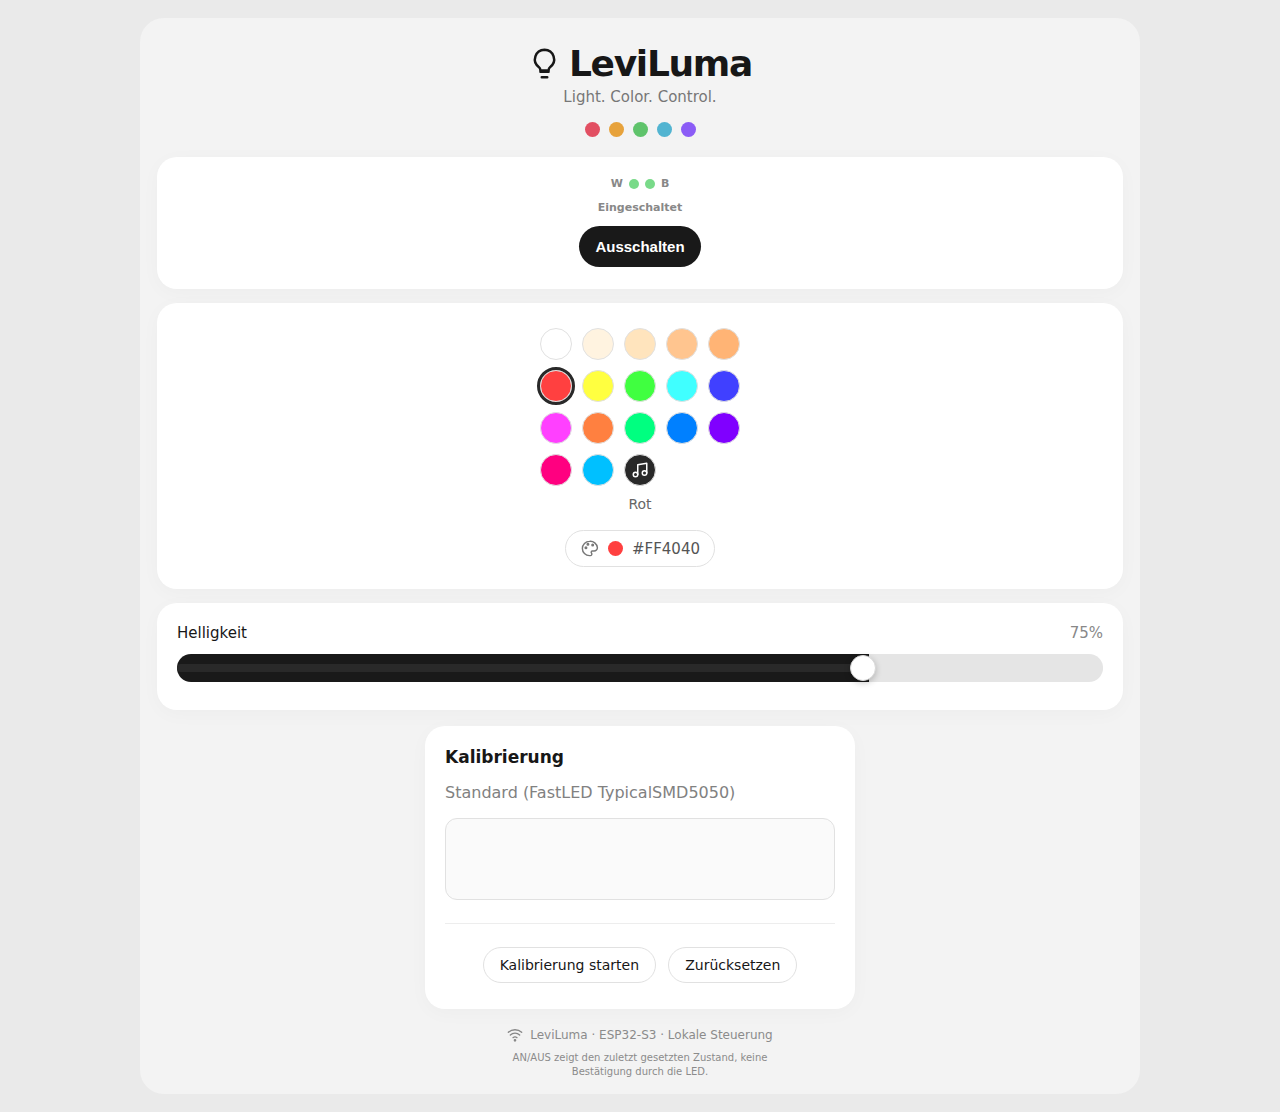
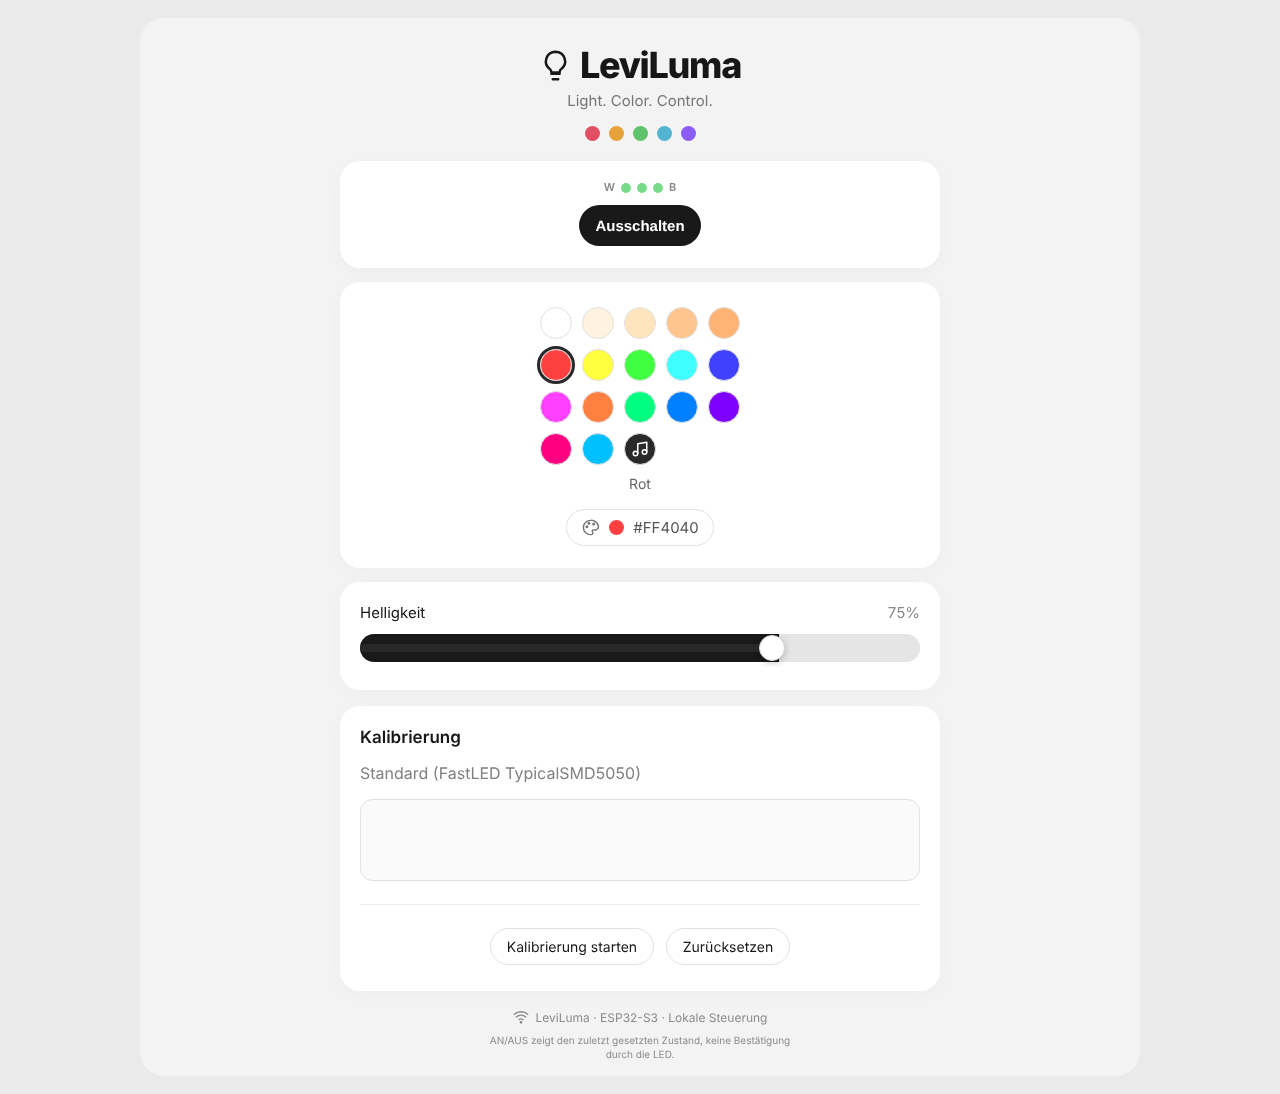
Web-UI: einheitliche Breite (max. 600 px), Einschalt-Status als Kreis statt Text
- Alle Karten (An/Aus, Farbe, Helligkeit, Kalibrierung) gleiche Breite, max. 600 px
- Text "Eingeschaltet" entfernt; zwischen WLAN- und BLE-Kreis ein unbeschrifteter Statuskreis:
  weiß = unbekannt, rot = aus, grün = an (mit Tooltip)
- Screenshots der Web-UI neu

Claude-Session: https://claude.ai/code/session_01XLaKkGhMqU82qXdsv9t5qw

diff --git a/include/WebUi.h b/include/WebUi.h
@@ -6,13 +6,13 @@ static const char LEVI_HTML[] PROGMEM=R"LEVIHTML(<!doctype html><html lang="de">
 .shell{background:#f3f3f3;border-radius:24px;padding:20px 17px 13px;width:min(100%,1000px)}
 header{text-align:center;padding:5px 0 20px}h1{font-size:36px;letter-spacing:-1.3px;margin:0;font-weight:760;display:flex;align-items:center;justify-content:center;gap:8px}
 svg{display:block}header p{margin:4px 0;color:#777;font-size:15px}.branddots{display:flex;justify-content:center;gap:9px;margin-top:16px}.branddots i{width:15px;height:15px;border-radius:50%}
-.calib{margin:16px auto 0;max-width:430px}
-.tri{display:grid;grid-template-columns:minmax(0,1fr);gap:14px}
+.calib{margin:16px auto 0;max-width:600px;width:100%}
+.tri{display:grid;grid-template-columns:minmax(0,1fr);gap:14px;width:100%;max-width:600px;margin:0 auto}
 .tile{display:flex;flex-direction:column;justify-content:center;padding:20px 18px}
 .power-tile{display:flex;flex-direction:column;align-items:center;padding:20px 18px;gap:12px}
 .dots{display:flex;align-items:center;gap:6px}
 .dl{font-size:11px;font-weight:600;color:#888;line-height:1}
-.dot{display:inline-block;width:10px;height:10px;border-radius:50%;background:#e5484d}.dot.ok{background:#79da89}
+.dot{display:inline-block;width:10px;height:10px;border-radius:50%;background:#e5484d}.dot.ok{background:#79da89}.dot.unk{background:#fff;box-shadow:inset 0 0 0 1px #c9c9c9}
 .statebar{display:flex;justify-content:center;margin-top:auto}
 .statebar .state{font-size:11px;font-weight:600;color:#888}
 .power-tile .power{margin:auto 0}
@@ -42,7 +42,7 @@ input[type=range]:focus{outline:none}
 input[type=range]:focus-visible::-webkit-slider-thumb{box-shadow:0 0 0 4px rgba(41,41,41,.18)}
 .locked{opacity:.4;pointer-events:none}
 .pname{text-align:center;font-size:14px;color:#666;min-height:20px;margin:-8px 0 14px}</style></head><body><div class="shell"><header><h1><svg width="33" height="37" viewBox="0 0 24 24" fill="none" stroke="currentColor" stroke-width="1.8" stroke-linecap="round" stroke-linejoin="round"><path d="M9 18h6m-5 4h4m-2-20a7 7 0 0 0-4 12.7c.7.5 1 1.4 1 2.3h6c0-.9.3-1.8 1-2.3A7 7 0 0 0 12 2Z"/></svg>LeviLuma</h1><p>Light. Color. Control.</p><div class="branddots"><i style="background:#E24F62"></i><i style="background:#E7A23B"></i><i style="background:#5FC36B"></i><i style="background:#52B4D1"></i><i style="background:#8B5CF6"></i></div></header>
-<main class="tri"><section class="card tile power-tile" id="tPower"><div class="dots"><span class="dl">W</span><span id="wifi" class="dot" title="WLAN getrennt"></span><span id="ble" class="dot" title="BLE getrennt"></span><span class="dl">B</span></div><div class="statebar"><span class="state"><span id="pstatus">Status unbekannt</span></span></div><button class="power" id="power">Einschalten</button></section><section class="card tile" id="tColors"><div class="swatches" id="swatches"></div><div class="pname" id="pname"></div>
+<main class="tri"><section class="card tile power-tile" id="tPower"><div class="dots"><span class="dl">W</span><span id="wifi" class="dot" title="WLAN getrennt"></span><span id="pwr" class="dot unk" title="Status unbekannt"></span><span id="ble" class="dot" title="BLE getrennt"></span><span class="dl">B</span></div><button class="power" id="power">Einschalten</button></section><section class="card tile" id="tColors"><div class="swatches" id="swatches"></div><div class="pname" id="pname"></div>
 <div class="colorline"><label class="colorpill" for="color"><svg width="19" height="19" viewBox="0 0 24 24" fill="none" stroke="#777" stroke-width="1.8" stroke-linecap="round"><path d="M12 3a9 9 0 1 0 0 18h1a2 2 0 0 0 1.5-3.3 1.5 1.5 0 0 1 1.2-2.5h2.1A4.2 4.2 0 0 0 22 11a9 9 0 0 0-10-8Z"/><circle cx="7.5" cy="11" r="1"/><circle cx="10" cy="6.5" r="1"/><circle cx="16" cy="7.5" r="1"/></svg><span class="sample" id="sample"></span><span id="hex">#8B5CF6</span></label><input type="color" id="color" value="#8b5cf6"></div>
 </section><section class="card tile" id="tBright"><div class="brightnessline"><b>Helligkeit</b><span id="value">75%</span></div><input id="brightness" type="range" min="1" max="100" value="75"></section></main>
 <section class="card calib"><div class="top"><strong>Kalibrierung</strong></div>
@@ -68,7 +68,7 @@ function buildSwatches(){$('swatches').innerHTML='';palette.forEach(c=>{let h=c.
 fetch('/api/palette',{cache:'no-store'}).then(r=>r.json()).then(j=>{palette=j.colors||[];buildSwatches();render();}).catch(()=>{});
 function render(){let h=hex();let on=s.power==='on';document.querySelectorAll('.brightnessline,#brightness,#swatches').forEach(el=>el.classList.toggle('locked',!on));$('sample').style.background=h;$('hex').textContent=h.toUpperCase();$('color').value=h;
 $('value').textContent=s.brightness+'%';$('brightness').value=s.brightness;$('brightness').style.setProperty('--p',((s.brightness-1)/99*100)+'%');let pct=(s.brightness-1)/99*100;$('brightness').style.background='linear-gradient(to right,#191919 '+pct+'%,#e5e5e5 '+pct+'%)';
-$('pstatus').textContent=s.power==='on'?'Eingeschaltet':s.power==='off'?'Ausgeschaltet':'Status unbekannt';$('power').textContent=s.power==='on'?'Ausschalten':'Einschalten';
+{let pw=$('pwr');pw.className='dot'+(s.power==='on'?' ok':s.power==='off'?'':' unk');pw.title=s.power==='on'?'Eingeschaltet (grün)':s.power==='off'?'Ausgeschaltet (rot)':'Status unbekannt (weiß)';}$('power').textContent=s.power==='on'?'Ausschalten':'Einschalten';
 [...$('swatches').children].forEach((b,i)=>b.classList.toggle('sel',!s.music&&!!palette[i]&&palette[i].hex===h));let pi=palette.findIndex(c=>c.hex===h);$('pname').textContent=s.music?'Musik':(pi>=0?palette[pi].name:'Eigene Farbe');let mb=$('swatches').lastElementChild;if(mb)mb.classList.toggle('sel',!!s.music);}
 function refresh(){fetch('/api/state',{cache:'no-store'}).then(r=>r.json()).then(d=>{let w=$('wifi');w.title=d.wifi?'WLAN verbunden':'WLAN getrennt';w.className='dot'+(d.wifi?' ok':'');let b=$('ble');b.title=d.ble?'BLE verbunden':'BLE getrennt';b.className='dot'+(d.ble?' ok':'');if(Date.now()>editingUntil){s=d;render();}}).catch(()=>{$('wifi').title='ESP offline';$('wifi').className='dot';$('ble').title='ESP offline';$('ble').className='dot';});}
 const togglePower=()=>{let on=s.power!=='on';s.power=on?'on':'off';render();post('/api/power?on='+(on?1:0))};
